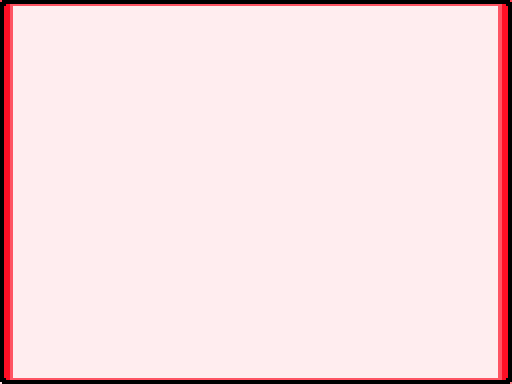
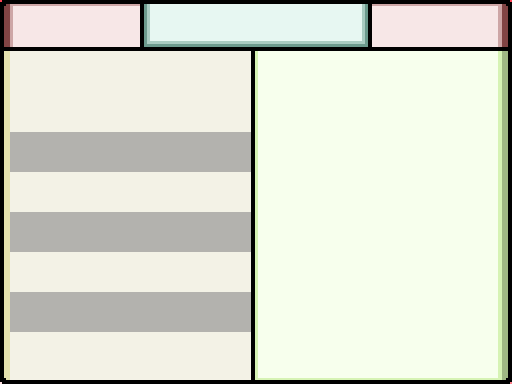
Individual battle info menu progress

Changed region(s): [[0.0, 0.0, 1.0, 1.0]]

diff --git a/Plugins/Battle/UI/BattleInfoDisplay.rb b/Plugins/Battle/UI/BattleInfoDisplay.rb
@@ -67,7 +67,7 @@ class BattleInfoDisplay < SpriteWrapper
 	# Draw the
 	battlerNameX = 24
 	battlerCursorX = 160
-	yPos = 12
+	yPos = 8
 	battlerIndex = 0
 
 	# Entries for allies
@@ -81,7 +81,7 @@ class BattleInfoDisplay < SpriteWrapper
 	end
 
 	# Entries for enemies
-	yPos += 12
+	yPos = 180
 	@battle.eachOtherSideBattler do |b|
 		next if !b
 		textToDraw.push([b.name,battlerNameX,yPos + 4,0,base,shadow])
@@ -186,7 +186,7 @@ class BattleInfoDisplay < SpriteWrapper
 		battlerName += " (#{speciesData.real_name})"
 		battlerName += " [#{speciesData.real_form_name}]" if speciesData.form != 0
 	end
-	textToDraw.push([battlerName,180,10,0,base,shadow])
+	textToDraw.push([battlerName,256,0,2,base,shadow])
 	index = 0
 	
 	stageMulMainStat = [2,2,2,2,2,2, 2, 3,4,5,6,7,8]
@@ -196,7 +196,13 @@ class BattleInfoDisplay < SpriteWrapper
     stageDivBattleStat = [9,8,7,6,5,4, 3, 3,3,3,3,3,3]
 	
 	# Stat Stages
-	textToDraw.push(["Stat Stages",24,42,0,base,shadow])
+	statStagesSectionTopY = 56
+	statLabelX = 24
+	statStageX = 124
+	statMultX = 184
+	textToDraw.push(["Stat",statLabelX,statStagesSectionTopY,0,base,shadow])
+	textToDraw.push(["Stage",statStageX,statStagesSectionTopY-12,0,base,shadow])
+	textToDraw.push(["Mult",statMultX,statStagesSectionTopY,0,base,shadow])
 	
 	statsToNames = {
 	:ATTACK => "Atk",
@@ -209,10 +215,10 @@ class BattleInfoDisplay < SpriteWrapper
 	}
 	
 	statsToNames.each do |stat,name|
-		y = 90 + 32 * index
+		y = statStagesSectionTopY + 36 + 40 * index
 	
 		statData = GameData::Stat.get(stat)
-		textToDraw.push([name,24,y,0,base,shadow])
+		textToDraw.push([name,statLabelX,y,0,base,shadow])
 		
 		stage = battler.stages[stat]
 		stageZero = stage == 0
@@ -222,6 +228,11 @@ class BattleInfoDisplay < SpriteWrapper
 		end
 		stageLabel = "+" + stageLabel if stage > 0
 		
+		x = statStageX
+		x -= 12 if !stageZero
+		mainColor = @battle.bossBattle? ? bossBase : base
+		textToDraw.push([stageLabel,x,y,0,mainColor,shadow])
+
 		if !stageZero
 			#Percentages
 			stageMul = statData.type == :battle ? stageMulBattleStat : stageMulMainStat
@@ -229,19 +240,16 @@ class BattleInfoDisplay < SpriteWrapper
 			adjustedStage = stage + 6
 			mult = stageMul[adjustedStage].to_f/stageDiv[adjustedStage].to_f
 			mult = (1.0+mult)/2.0 if battler.boss?
-			stageLabel = "#{stageLabel} (#{mult.round(2)}x)"
+			multLabel = mult.round(2).to_s + "x"
+			textToDraw.push([multLabel,statMultX,y,0,mainColor,shadow])
 		end
-		
-		x = 106
-		x -= 12 if !stageZero
-		mainColor = @battle.bossBattle? ? bossBase : base
-		textToDraw.push([stageLabel,x,y,0,mainColor,shadow])
 		
 		index += 1
 	end
 	
 	# Effects
-	textToDraw.push(["Effects",240,42,0,base,shadow])
+	battlerEffectsX = 280
+	textToDraw.push(["Effects",battlerEffectsX,statStagesSectionTopY,0,base,shadow])
 	
 	# Battler effects
 	battlerEffects = []
@@ -249,10 +257,10 @@ class BattleInfoDisplay < SpriteWrapper
 	for effect in 0..150
 		effectValue = battler.effects[effect]
 		next if effectValue.nil?
-		next if effectValue == false
-		next if effectValue.is_a?(Integer) && effectValue <= 0
-		next if effect == PBEffects::ProtectRate && effectValue <= 1
-		next if effect == PBEffects::Unburden && !battler.hasActiveAbility?(:UNBURDEN)
+		# next if effectValue == false
+		# next if effectValue.is_a?(Integer) && effectValue <= 0
+		# next if effect == PBEffects::ProtectRate && effectValue <= 1
+		# next if effect == PBEffects::Unburden && !battler.hasActiveAbility?(:UNBURDEN)
 		effectName = labelBattlerEffect(effect)
 		next if effectName.blank?
 		effectName += ": " + effectValue.to_s if effectValue.is_a?(Integer) || effectValue.is_a?(String)
@@ -263,8 +271,8 @@ class BattleInfoDisplay < SpriteWrapper
 	for effect in 0..30
 		effectValue = @battle.positions[battler.index].effects[effect]
 		next if effectValue.nil?
-		next if effectValue == false
-		next if effectValue.is_a?(Integer) && effectValue <= 0
+		# next if effectValue == false
+		# next if effectValue.is_a?(Integer) && effectValue <= 0
 		effectName = labelSlotEffect(effect)
 		next if effectName.blank?
 		effectName += ": " + effectValue.to_s if effectValue.is_a?(Integer) || effectValue.is_a?(String)
@@ -274,16 +282,26 @@ class BattleInfoDisplay < SpriteWrapper
 	scrolling = true if battlerEffects.length > 8
 	
 	# Print all the battler effects to screen
+	scrollingBoundYMin = 84
+	scrollingBoundYMax = 336
 	index = 0
 	repeats = scrolling ? 2 : 1
-	for repeat in 0...repeats
-		battlerEffects.each do |effectName|
-			index += 1
-			calcedY = 90 + 32 * index
-			calcedY -= @battlerScrollingValue if scrolling
-			next if calcedY < 74 || calcedY > 326
-			textToDraw.push([effectName,240,calcedY,0,base,shadow])
+	if battlerEffects.length != 0
+		for repeat in 0...repeats
+			battlerEffects.each do |effectName|
+				index += 1
+				calcedY = statStagesSectionTopY + 40 + 32 * index
+				calcedY -= @battlerScrollingValue if scrolling
+				next if calcedY < scrollingBoundYMin || calcedY > scrollingBoundYMax
+				distanceFromFade = [calcedY - scrollingBoundYMin,scrollingBoundYMax - calcedY].min
+				textAlpha = ([distanceFromFade / 20.0,1.0].min * 255).floor
+				textBase = Color.new(base.red,base.blue,base.green,textAlpha)
+				textShadow = Color.new(shadow.red,shadow.blue,shadow.green,textAlpha)
+				textToDraw.push([effectName,battlerEffectsX,calcedY,0,textBase,textShadow])
+			end
 		end
+	else
+		textToDraw.push(["None",battlerEffectsX,statStagesSectionTopY + 36,0,base,shadow])
 	end
 	
 	# Reset the scrolling once its scrolled through the entire list once
@@ -435,8 +453,12 @@ class BattleInfoDisplay < SpriteWrapper
 		"Nerve Broken",
 		"Ice Ball",
 		"Roll Out",
-		"Protected By Gargantuan",
-		"Empowered Moonlight"
+		"", # Gargantuan
+		"", # Stunning Curl
+		"", # Red-Hot Retreat
+		"Empowered Moonlight",
+		"Empowered Endure",
+		"Empowered Laser Focus",
 	][effectNumber] || ""
   end
   
@@ -450,7 +472,7 @@ class BattleInfoDisplay < SpriteWrapper
 		"", # Lunar Dance
 		"", # Wish
 		"Wishing For",
-		"" # Wish Maker
+		"", # Wish Maker
 	][effectNumber] || ""
   end
   
@@ -470,7 +492,7 @@ class BattleInfoDisplay < SpriteWrapper
 			"Water Sport",
 			"Wonder Room",
 			"Fortune",
-			"Neutralizing Gas"
+			"Neutralizing Gas",
 		][effectNumber] || ""
 	end
 
@@ -497,7 +519,10 @@ class BattleInfoDisplay < SpriteWrapper
 			"Swamp",
 			"Tailwind",
 			"Poison Spikes", # Toxic Spikes,
-			"" # Wide Guard
+			"", # Wide Guard
+			"Flame Spikes",
+			"EmpoweredEmbargo",
+			"Frost Spikes",
 		][effectNumber] || ""
 	end
  

diff --git a/Plugins/Battle/Other/PBEffects.rb b/Plugins/Battle/Other/PBEffects.rb
@@ -35,10 +35,10 @@ module PBEffects
 	StunningCurl		= 142
     RedHotRetreat       = 143
 
-    ExtraTurns          = 199
-    EmpoweredMoonlight  = 200
-	EmpoweredEndure		= 201
-	EmpoweredLaserFocus = 202
+    ExtraTurns          = 144
+    EmpoweredMoonlight  = 145
+	EmpoweredEndure		= 146
+	EmpoweredLaserFocus = 147
 	
 	#===========================================================================
     # These effects apply to a side
